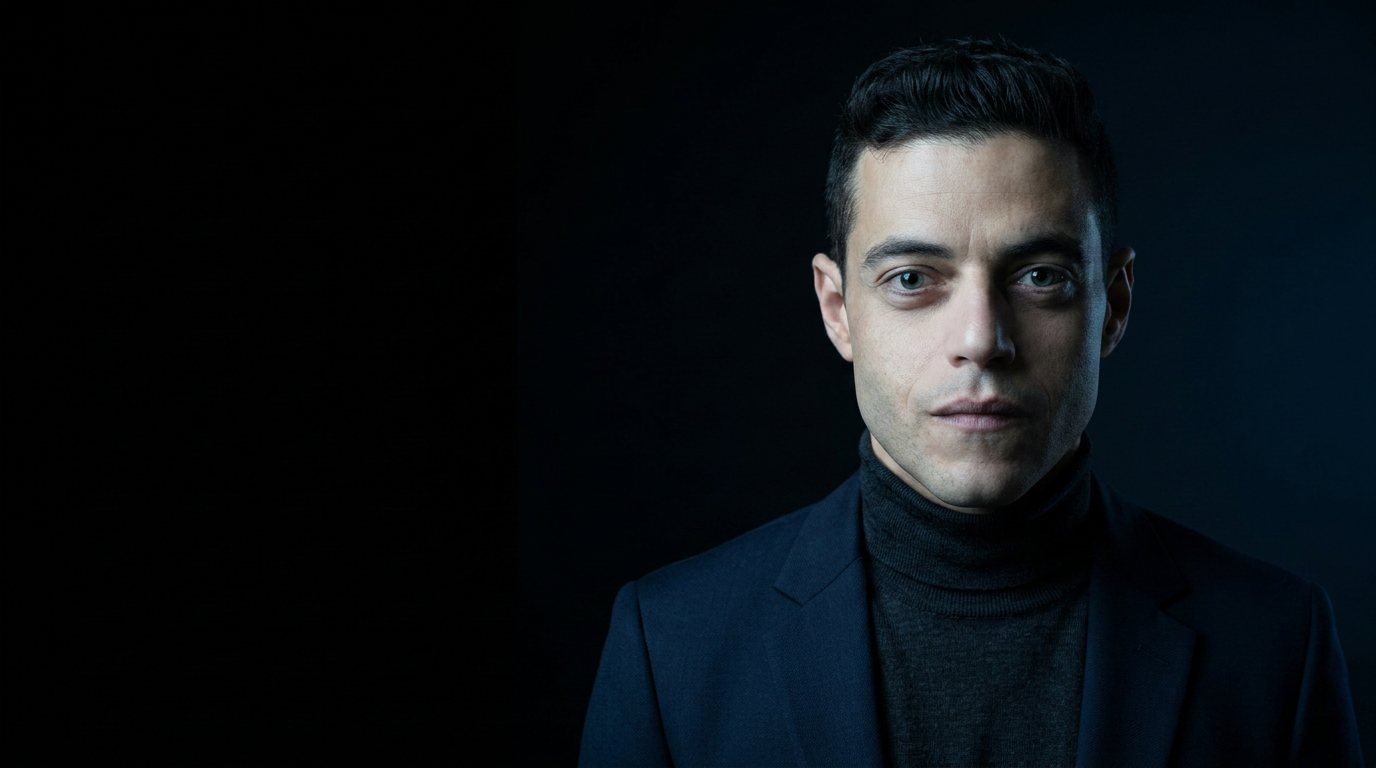
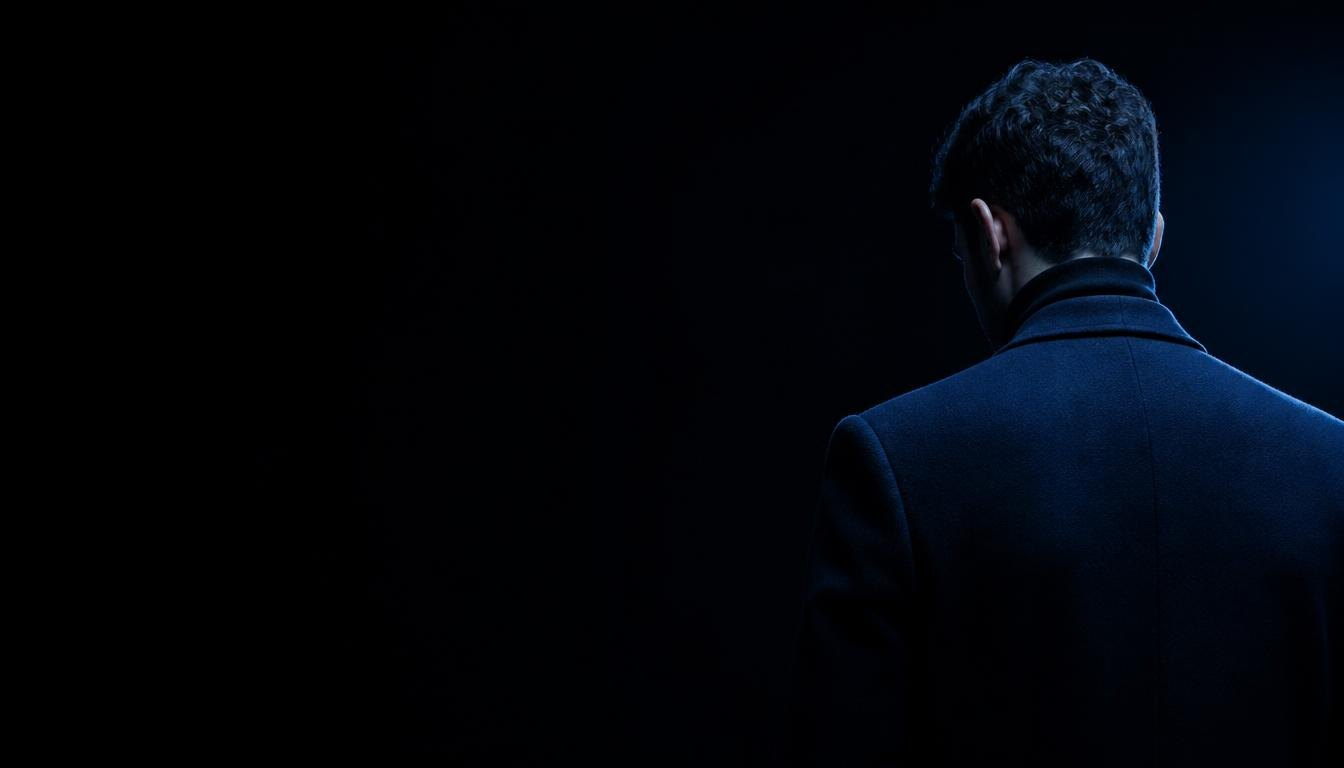
Sostituisce i ritratti della hero con le nuove figure di spalle
- hero-1: figura di spalle con cappotto (livello iniziale).
- hero-2: figura di spalle con cappuccio (rivelata da scroll e lente).
- Alleggerisce .hero-scrim: i nuovi scatti sono gia' molto scuri a sinistra.
- Sposta la focale mobile a 80% (CSS e canvas) per tenere le sagome in campo.

Claude-Session: https://claude.ai/code/session_01ErmqjwnTrsmZUpXACwgJdf

Changed region(s): [[0.4062, 0.0625, 1.0, 1.0], [0.9688, 0.8125, 1.0, 0.9688], [0.9688, 0.2188, 1.0, 0.2812]]

diff --git a/src/styles/global.css b/src/styles/global.css
@@ -248,10 +248,10 @@ h3{font-size:12px;font-family:var(--mono);font-weight:500;letter-spacing:.26em;c
 .hero-scrim{
   position:absolute;inset:0;z-index:2;pointer-events:none;
   background:linear-gradient(100deg,
-    rgba(0,0,0,.74) 0%,
-    rgba(0,0,0,.52) 26%,
-    rgba(0,0,0,.18) 48%,
-    rgba(0,0,0,0) 66%);
+    rgba(0,0,0,.58) 0%,
+    rgba(0,0,0,.38) 26%,
+    rgba(0,0,0,.12) 46%,
+    rgba(0,0,0,0) 62%);
 }
 .hero-id{
   position:absolute;inset:0;z-index:4;pointer-events:none;
@@ -400,7 +400,7 @@ footer{
 }
 /* mirrors view.mobile (W < 700) used by the reveal canvas */
 @media (max-width:699px){
-  .hero-media img{object-position:72% center}
+  .hero-media img{object-position:80% center}
   .hero-scrim{
     background:linear-gradient(to top,
       rgba(0,0,0,.86) 0%,

diff --git a/src/scripts/hero.js b/src/scripts/hero.js
@@ -19,7 +19,7 @@ const rctx = rc.getContext("2d");
 const img2 = new Image();
 img2.src = "/hero-2.jpg";
 /* horizontal focal point of both portraits — must match object-position in global.css */
-const focalX = () => (view.mobile ? 0.72 : 0.62);
+const focalX = () => (view.mobile ? 0.80 : 0.62);
 const scan = { x:-999, y:-999, tx:-999, ty:-999, on:false, amt:0 };
 
 function sizeReveal() {
